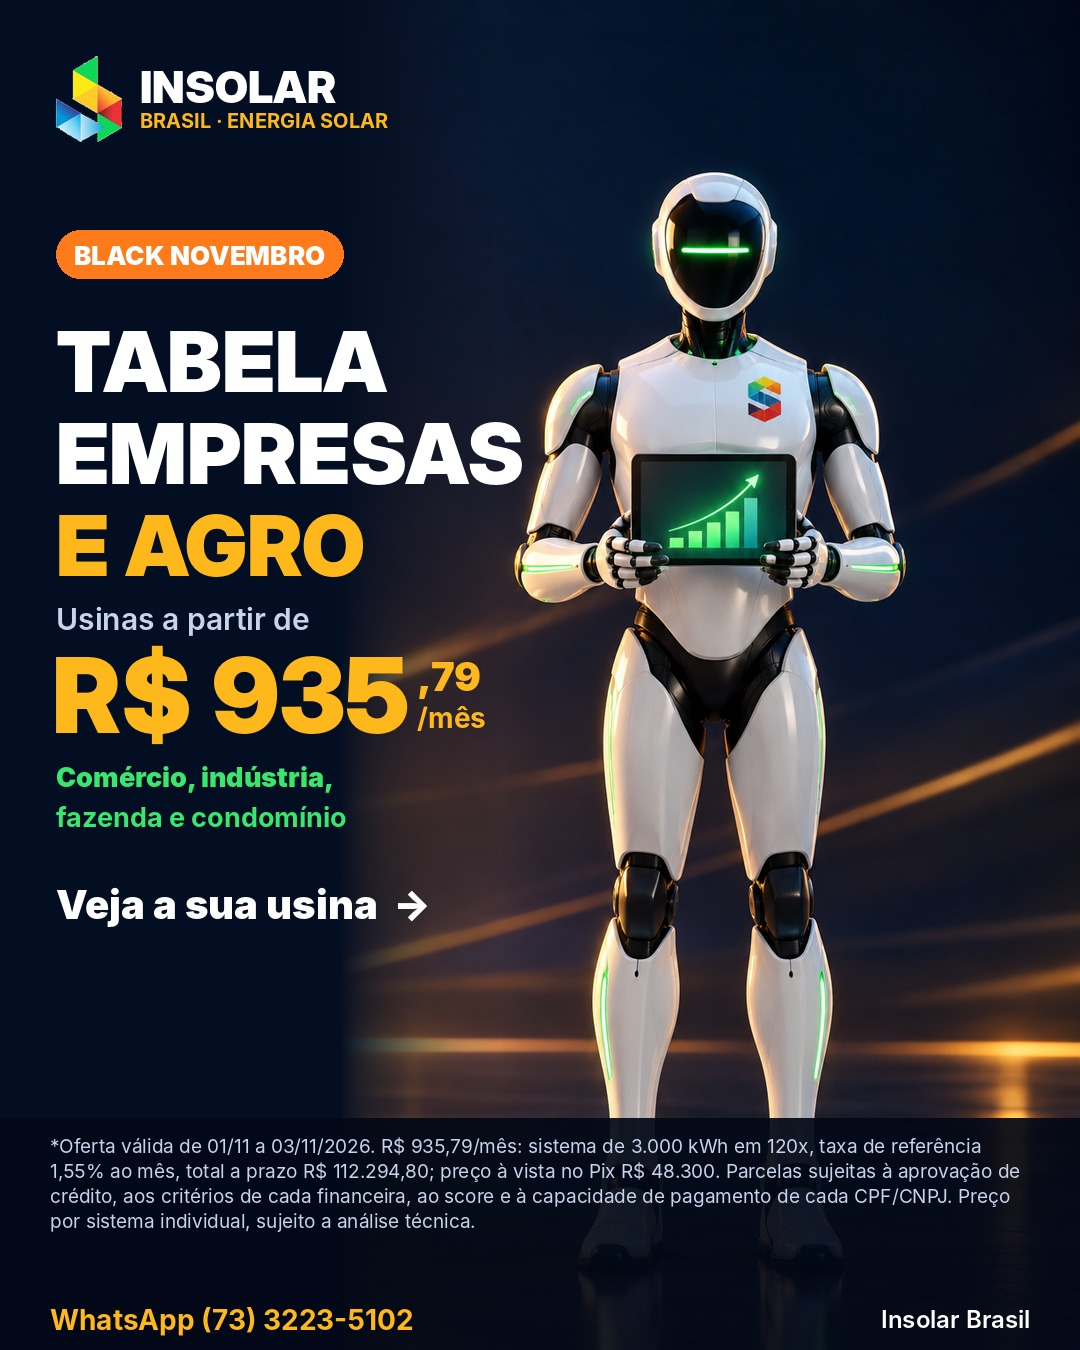
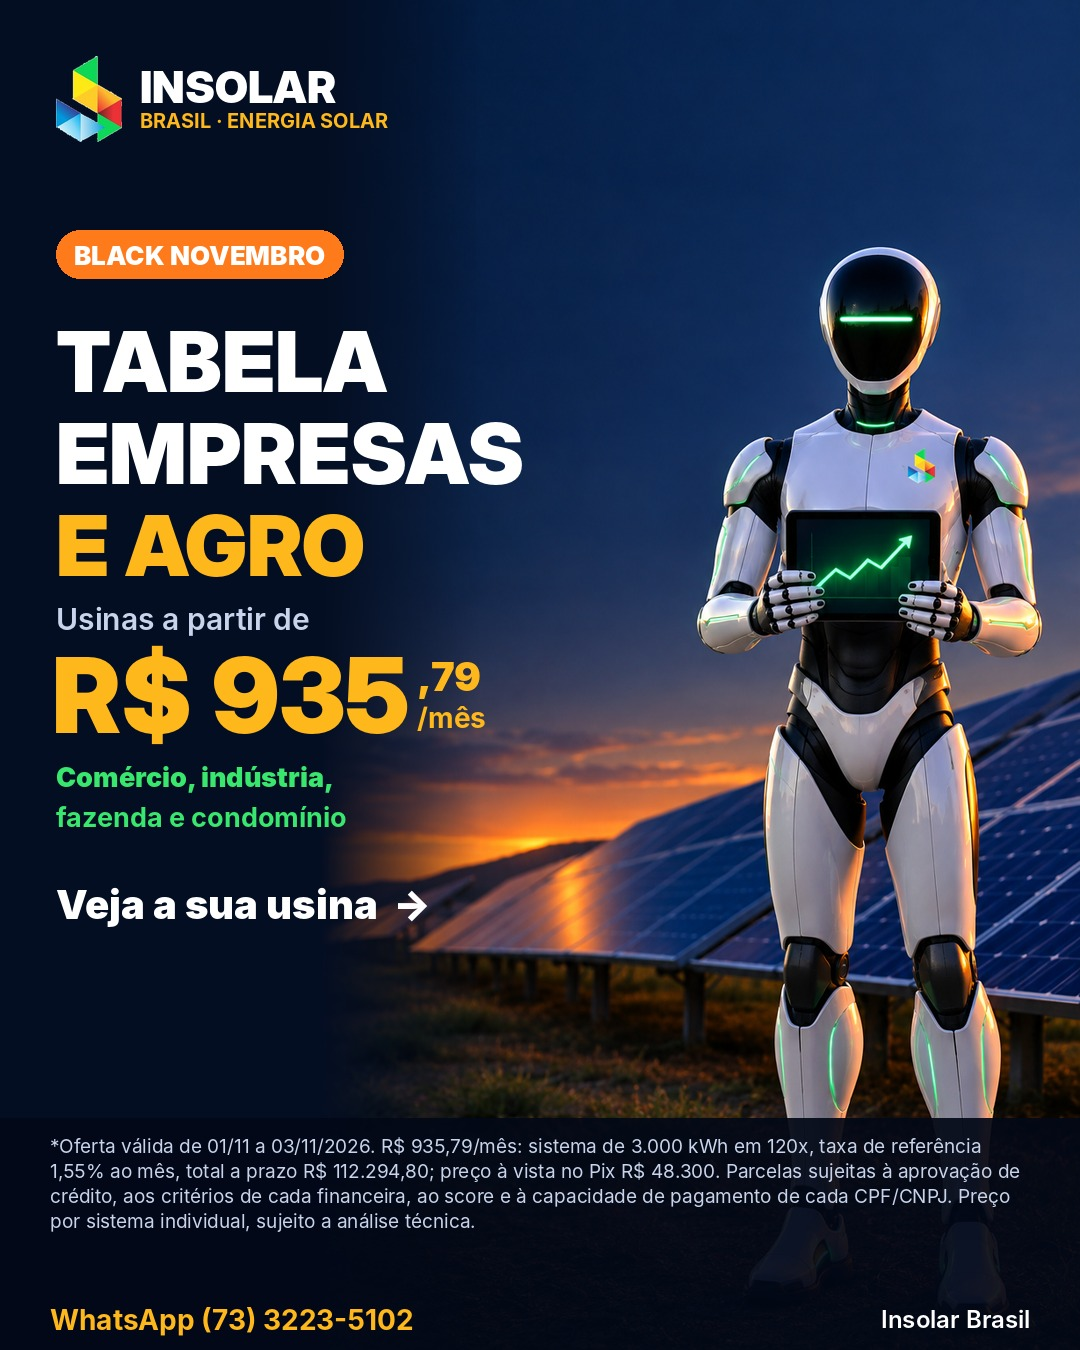
Capas com robô do tablet nas placas (S corrigido)

diff --git a/2026-11/precos/cards.py b/2026-11/precos/cards.py
@@ -102,7 +102,7 @@ def card(n,k):
     c.save(f'out/precos/{n:02d}_kit_{k["kwh"]}.jpg',quality=92)
 
 def capa():
-    c=base('robo_tablet_parcelas.png',x0=(W-759)//2+180); logo(c,w=230); d=ImageDraw.Draw(c); X=56
+    c=base('robo_tablet_placas.png'); logo(c,w=230); d=ImageDraw.Draw(c); X=56
     tag(d,X,230,'BLACK NOVEMBRO')
     f=F('InterDisplay-Black.otf',84)
     for i,t in enumerate(['TABELA','DE PREÇOS','INSOLAR']): d.text((X,310+i*92),t,font=f,fill=WHITE if i<2 else GOLD)

diff --git a/2026-11/precos/empresas.py b/2026-11/precos/empresas.py
@@ -102,7 +102,7 @@ def card(n,k):
     c.save(f'out/empresas/{n:02d}_kit_{k["kwh"]}.jpg',quality=92)
 
 def capa():
-    c=base('robo_tablet_parcelas.png',x0=(W-759)//2+180); logo(c,w=230); d=ImageDraw.Draw(c); X=56
+    c=base('robo_tablet_placas.png'); logo(c,w=230); d=ImageDraw.Draw(c); X=56
     tag(d,X,230,'BLACK NOVEMBRO')
     f=F('InterDisplay-Black.otf',84)
     for i,t in enumerate(['TABELA','EMPRESAS','E AGRO']): d.text((X,310+i*92),t,font=f,fill=WHITE if i<2 else GOLD)
